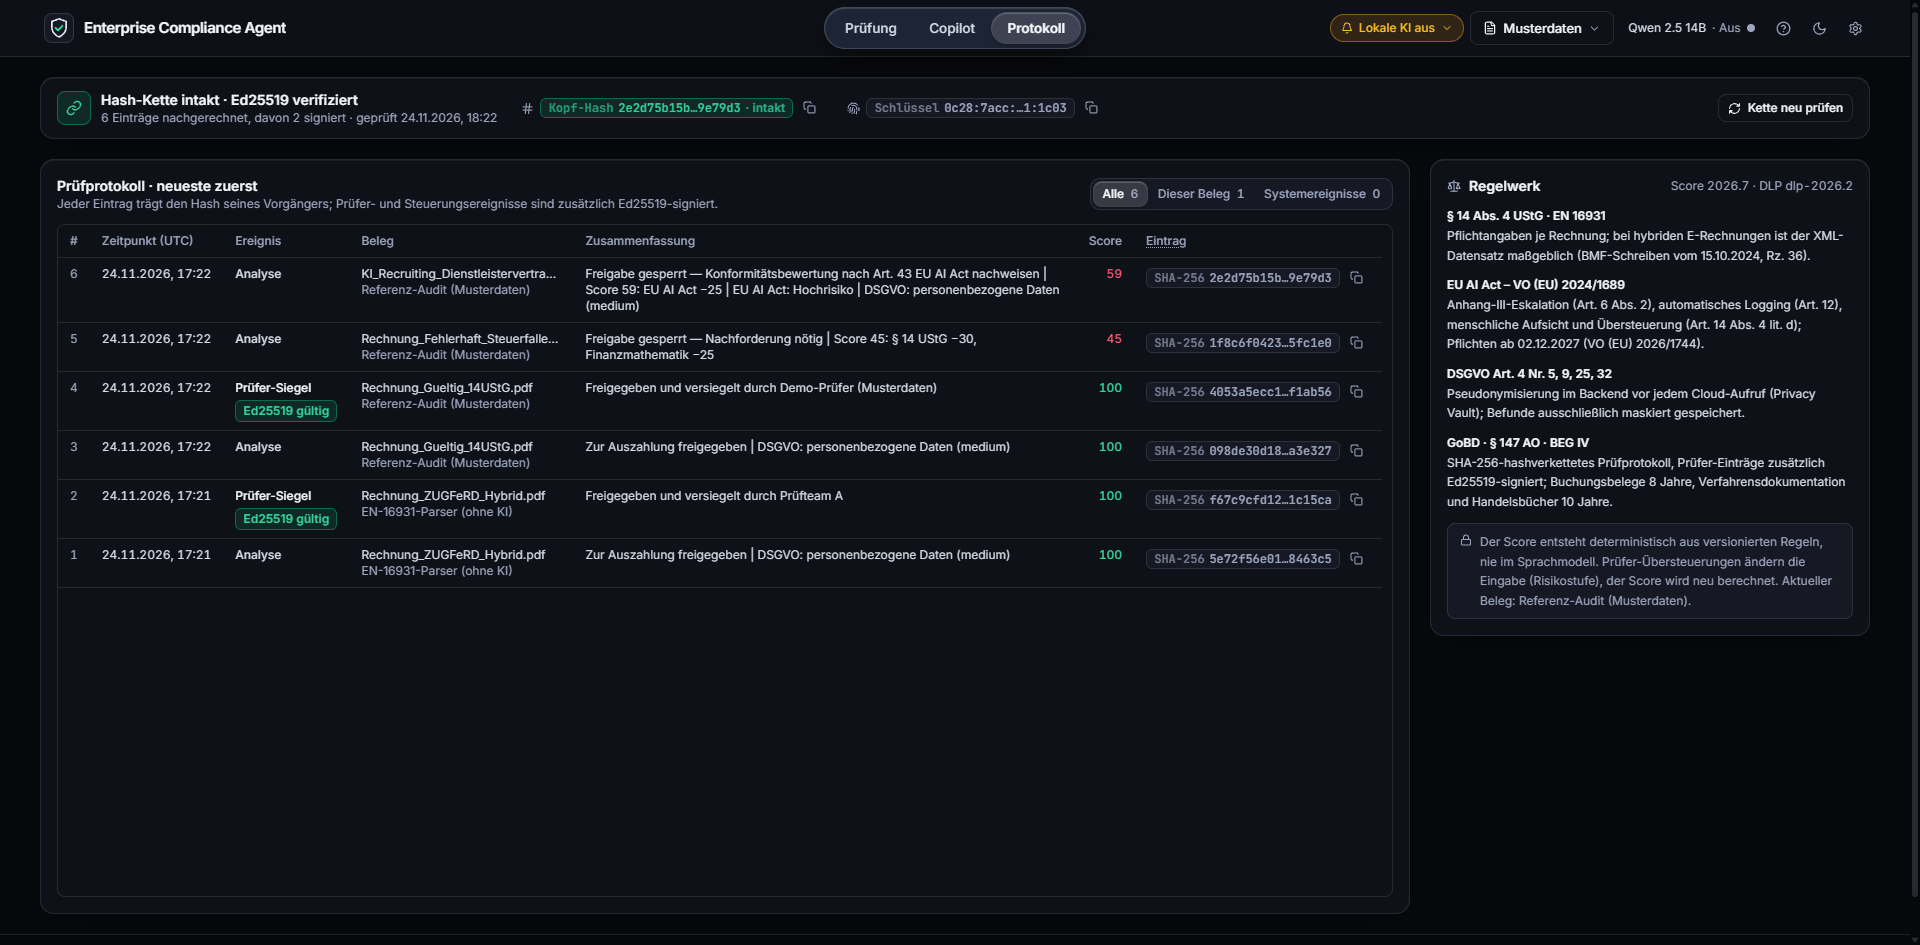
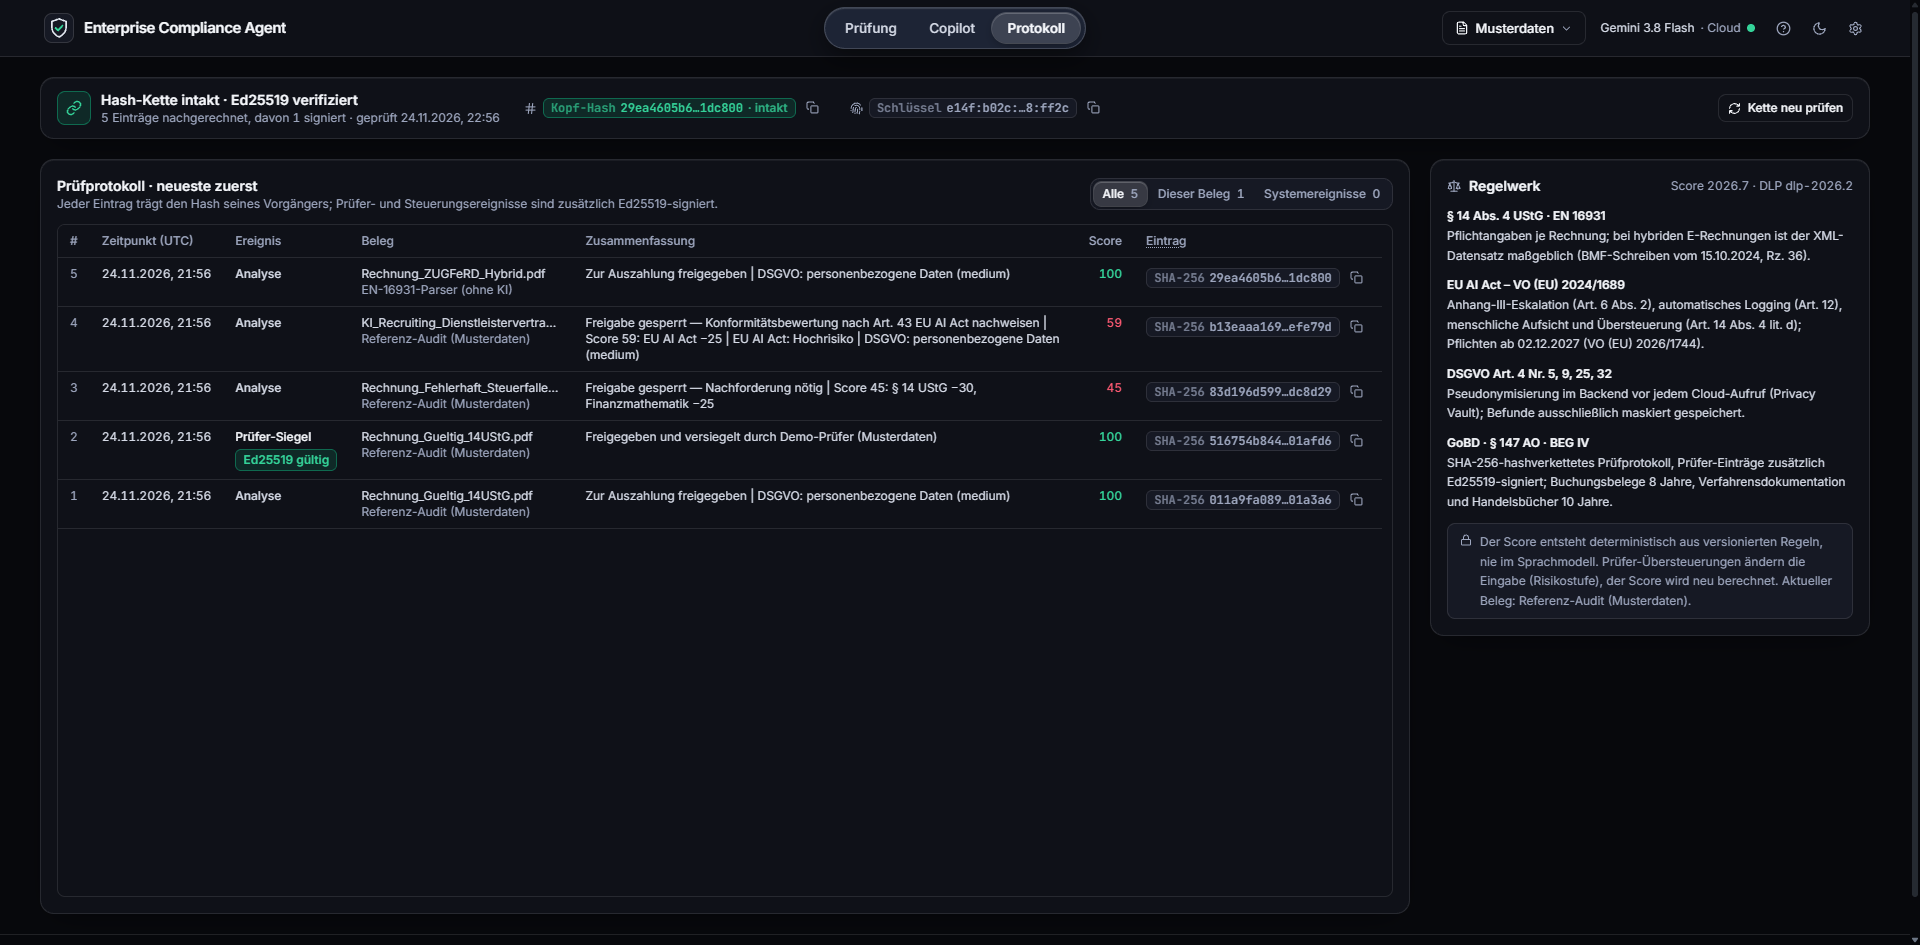
docs: Rundgang als GIF in 30 Sekunden und Protokoll-Screenshot neu
- README: Der Rundgang zeigt jetzt Musterdaten mit einer Rechnung mit Steuerfalle (Score 45, Revisionssperre mit Erklärung) und einer ZUGFeRD-Rechnung (Score 100, XML-Datensatz), danach Protokoll und Export-Dialog – 28 Sekunden statt 69.
- Aufnahmen mit eingerichtetem Cloud-Modell: keine Warnung „Lokale KI aus“ mehr in der Kopfzeile, Fußzeile mit v2.8.6.

diff --git a/README.md b/README.md
@@ -153,11 +153,12 @@ Details zu Pipeline, Kaskade, Jobs und Ledger: [`docs/ARCHITECTURE.md`](docs/ARC
 Drei fokussierte Ansichten in der Kopfzeile; alle bleiben eingehängt, ein
 Wechsel bricht weder eine Prüfung noch ein Gespräch ab.
 
-**Rundgang in 70 Sekunden** (Musterbeleg, ohne KI-Modell): Upload einer hybriden
-ZUGFeRD-Rechnung → Score mit Erklärung → Kerndaten und XML-Datensatz →
-Protokoll → Export mit Prüfbefehl → Freigabe und Siegel.
+**Rundgang in 30 Sekunden** (Musterdaten, verbrauchen kein KI-Kontingent):
+Musterdaten laden → Rechnung mit Steuerfalle (Score 45, Mängel, Revisionssperre
+mit Erklärung) → hybride ZUGFeRD-Rechnung (Score 100, XML-Datensatz) →
+Protokoll mit intakter Hash-Kette → Export-Dialog mit Prüfbefehl.
 
-![Rundgang: Upload einer ZUGFeRD-Rechnung, Score 100 mit Tooltip, Kerndaten und XML-Datensatz, Prüfprotokoll mit Kopf-Hash, Export-Dialog mit Prüfbefehl, Freigabe und Siegel](docs/screenshots/demo.gif)
+![Rundgang: Musterdaten laden, Rechnung mit Steuerfalle mit Score 45 und Tooltip zur Revisionssperre, ZUGFeRD-Rechnung mit Score 100 und XML-Datensatz, Prüfprotokoll mit intakter Hash-Kette, Export-Dialog mit Prüfbefehl](docs/screenshots/demo.gif)
 
 | Copilot | Protokoll |
 |---|---|
